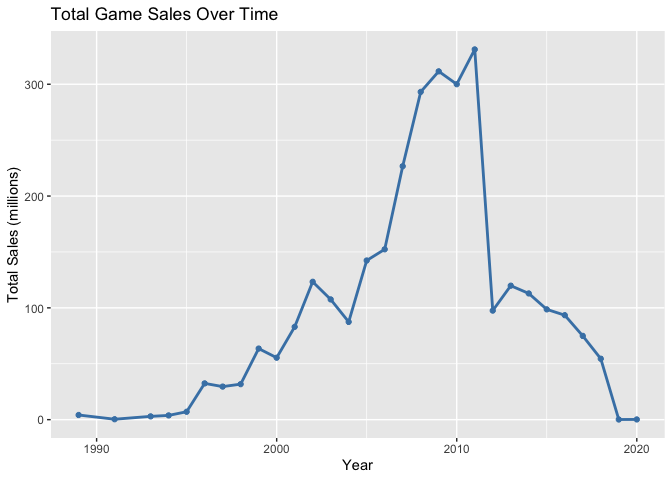
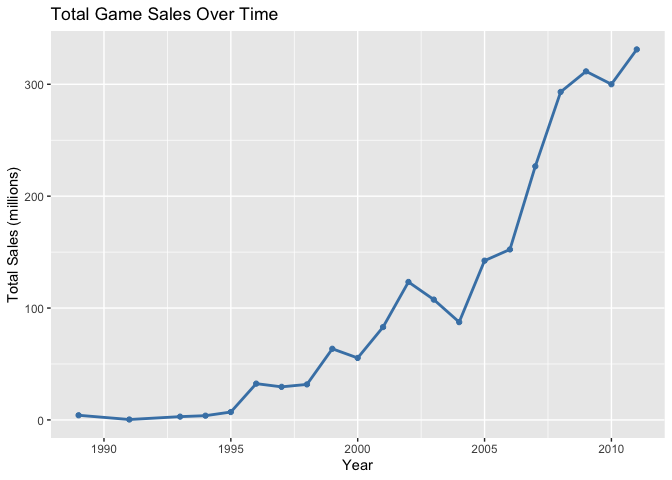
chart descriptions

diff --git a/README.md b/README.md
@@ -177,6 +177,13 @@ ggplot(top_games, aes(x = reorder(title, total_sales), y=total_sales)) +
 
 ![](README_files/figure-gfm/unnamed-chunk-3-1.png)<!-- -->
 
+From the chart we can see that GTA V is the best selling game by a large
+margin with almost 50 million sales. The top games are dominated by Call
+of Duty and GTA franchises, making up 13 of the top 25 games.
+Additionally, FIFA makes up another 4 games, so 3 franchises make up 17
+out of the top 25 games. From this we can see that franchise recognition
+is a major component of success in games.
+
 ## Critic Score vs Sales
 
 ``` r
@@ -314,7 +321,8 @@ ggplot(regional_sales, aes(x= reorder(region, sales), y = sales, fill = region))
     title = "Total Sales by Region",
     x = "Region",
     y = "Total Sales (millions)"
-  )
+  )+
+  theme(legend.position = "none")
 ```
 
 ![](README_files/figure-gfm/unnamed-chunk-7-1.png)<!-- -->
@@ -347,6 +355,13 @@ ggplot(all_games, aes(x = sales_category, fill = sales_category))+
 
 ![](README_files/figure-gfm/unnamed-chunk-8-1.png)<!-- -->
 
+The vast majority of games fit into the medium category with 100k to 1M
+sales. The medium category has more games than any of the other
+categories combined. Very large games that sell over 10 million copies
+make up a very small portion of the total games. From this we can see
+that a small fraction of games generate extreme sales while the majority
+of games sell moderately well.
+
 ## Score by game size
 
 ``` r
@@ -360,6 +375,12 @@ ggplot(all_games, aes(x = sales_category, y = critic_score, fill = sales_categor
 ```
 
 ![](README_files/figure-gfm/unnamed-chunk-9-1.png)<!-- -->
+
+The median critic score increases slightly as game size increases. Very
+large games have the smallest spread, indicating that blockbuster games
+are almost always highly reviewed. Small games have the largest spread
+and lowest median, displaying that low selling games tend correspond to
+lower reviews.
 
 ## Skepticism of Correlation: Critic Score vs Total Sales (Millions)
 
@@ -436,7 +457,8 @@ df_clean <- df_clean %>%
 
 sales_by_year <- df_clean %>%
   group_by(year) %>%
-  summarise(total_sales = sum(total_sales))
+  summarise(total_sales = sum(total_sales))%>%
+  filter(year <= 2011)
 
 ggplot(sales_by_year, aes(x = year, y = total_sales)) +
   geom_line(color = "steelblue", linewidth = 1) +
@@ -449,6 +471,13 @@ ggplot(sales_by_year, aes(x = year, y = total_sales)) +
 ```
 
 ![](README_files/figure-gfm/unnamed-chunk-11-1.png)<!-- -->
+
+Looking at the chart total game sales rose rapidly through the early
+2000s peaking around 2011 which reflects the height of the PS3 and Xbox
+360 era and dominance of franchises like Call of Duty. Years after 2019
+are excluded due to incomplete data coverage that does not reflect the
+actual total game sales of those years. The overall trend shows a clear
+growth through the 2000s and into the 2010s.
 
 ## Top 10 Publishers by Average Sales
 
@@ -474,6 +503,11 @@ ggplot(publisher_summary, aes(x = reorder(publisher, avg_sales), y = avg_sales))
 ```
 
 ![](README_files/figure-gfm/unnamed-chunk-12-1.png)<!-- -->
+
+We can see that Rockstar Games is by far the best selling publisher with
+over double the average sales of Microsoft in second. This reflects with
+the imense success of GTA along with their other games. We can see the
+next 9 publishers all have comparable average sales.
 
 ## Regional Sales by Genre
 
@@ -527,6 +561,13 @@ ggplot(df_clean %>% filter(genre %in% valid_genres$genre), aes(x = reorder(genre
 ```
 
 ![](README_files/figure-gfm/unnamed-chunk-14-1.png)<!-- -->
+
+Sports and Strategy games have the highest median scores, while action
+and platformer games have the lowest with large spreads, showing more
+variability in those genres. The genres that had the highest average
+sales, Shooter and Action-Adventure games, sit in the middle of the
+critic score rankings, showing that commercial success and critic score
+do not always correlate.
 
 ## The shift in dominance of top 5 publishers over time
 